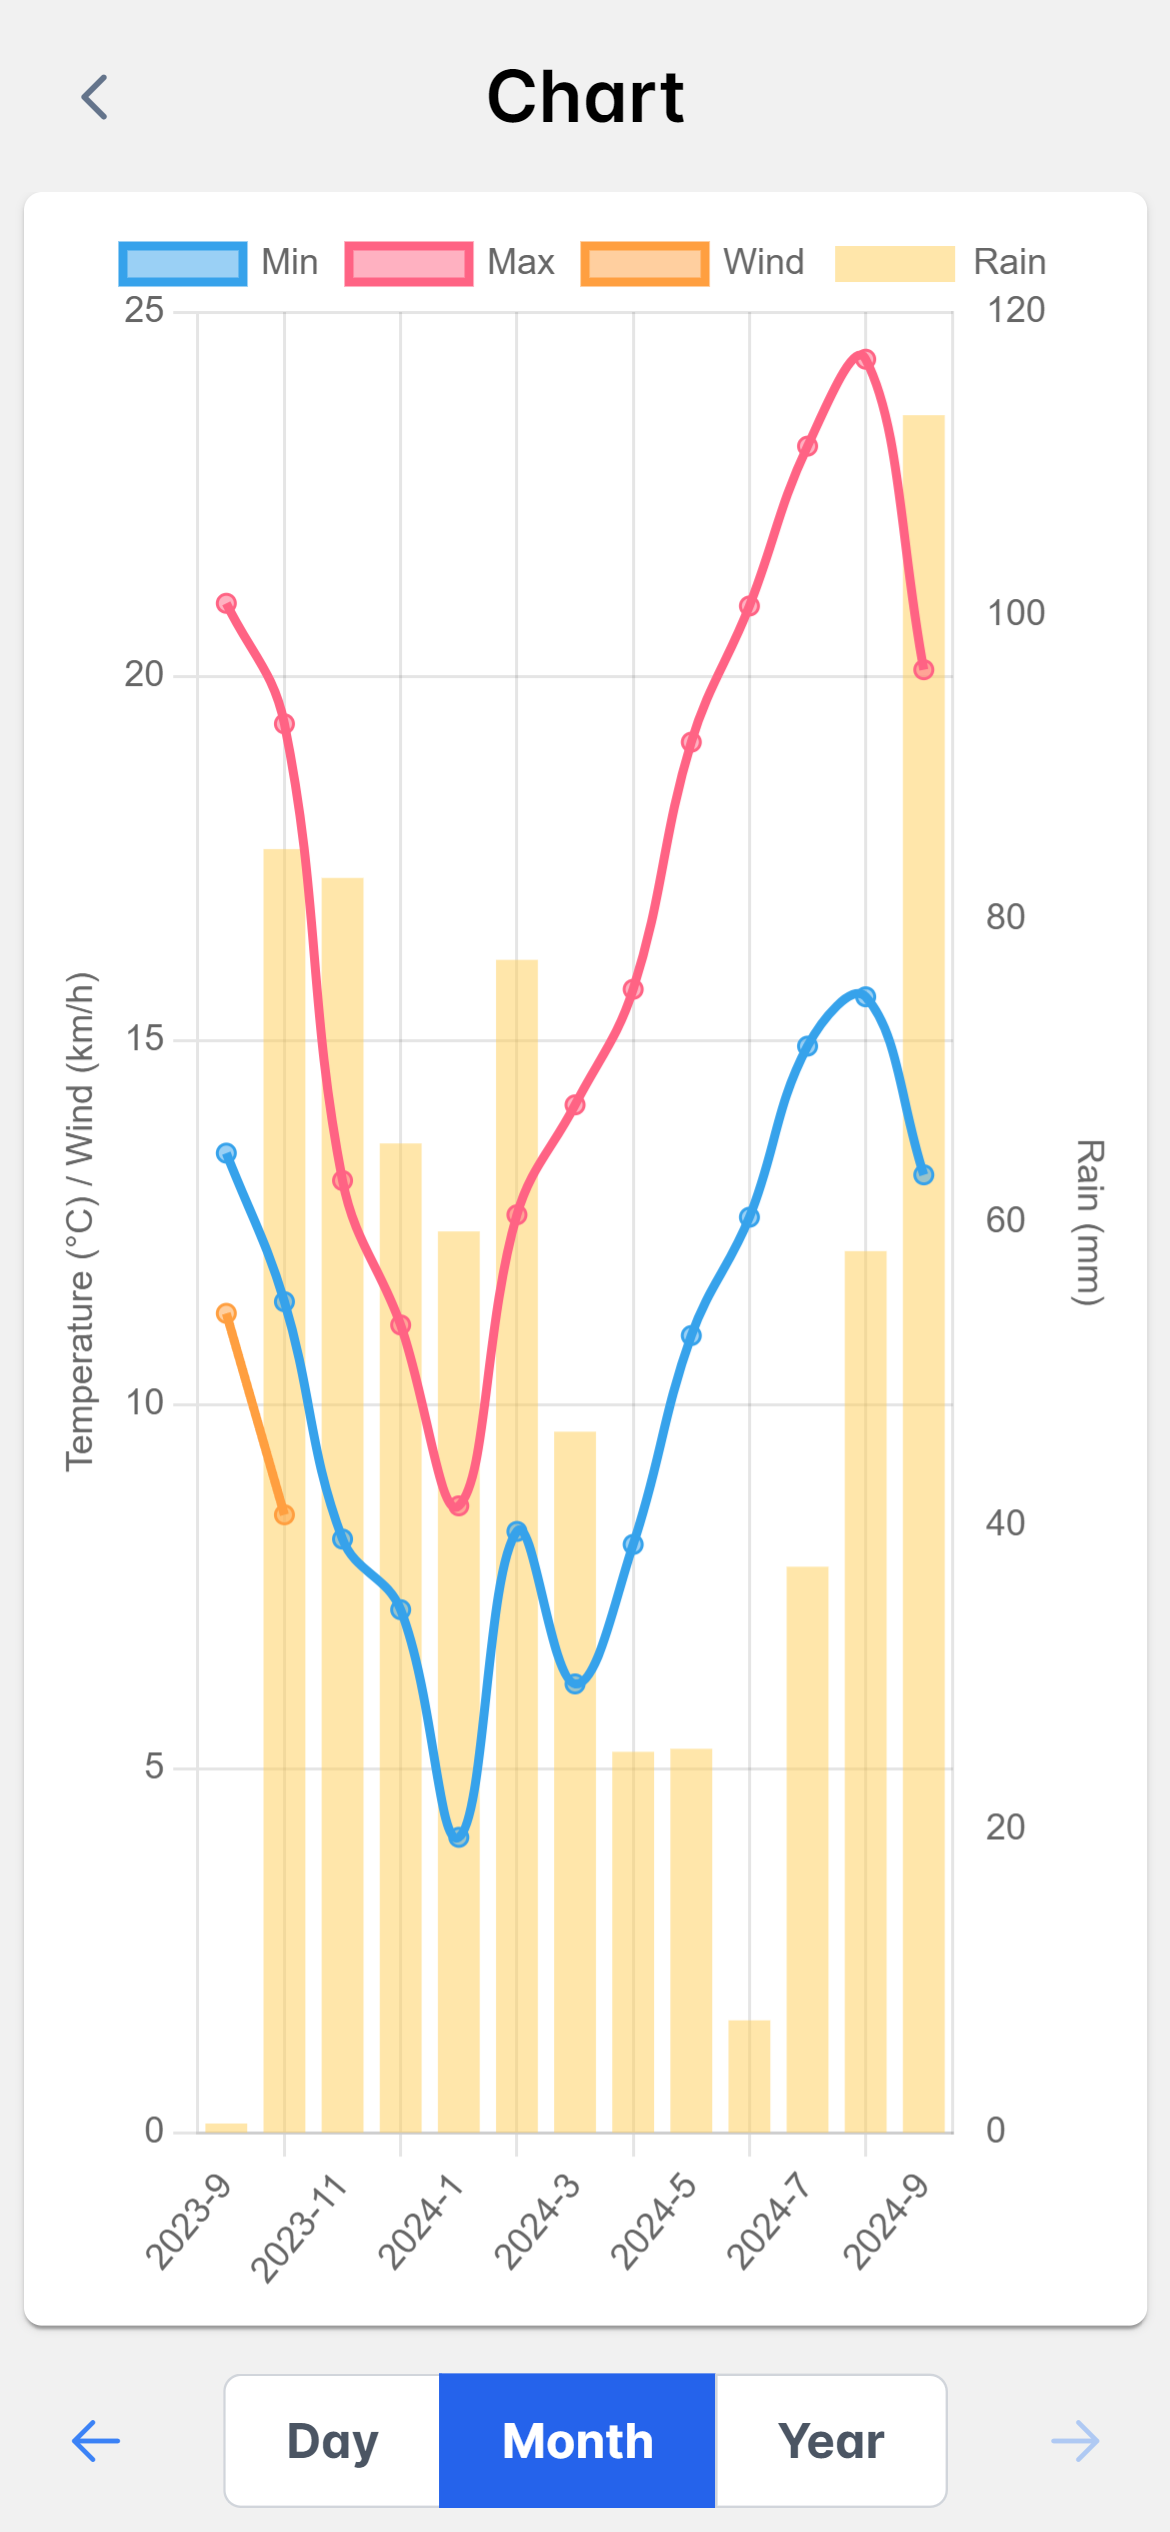
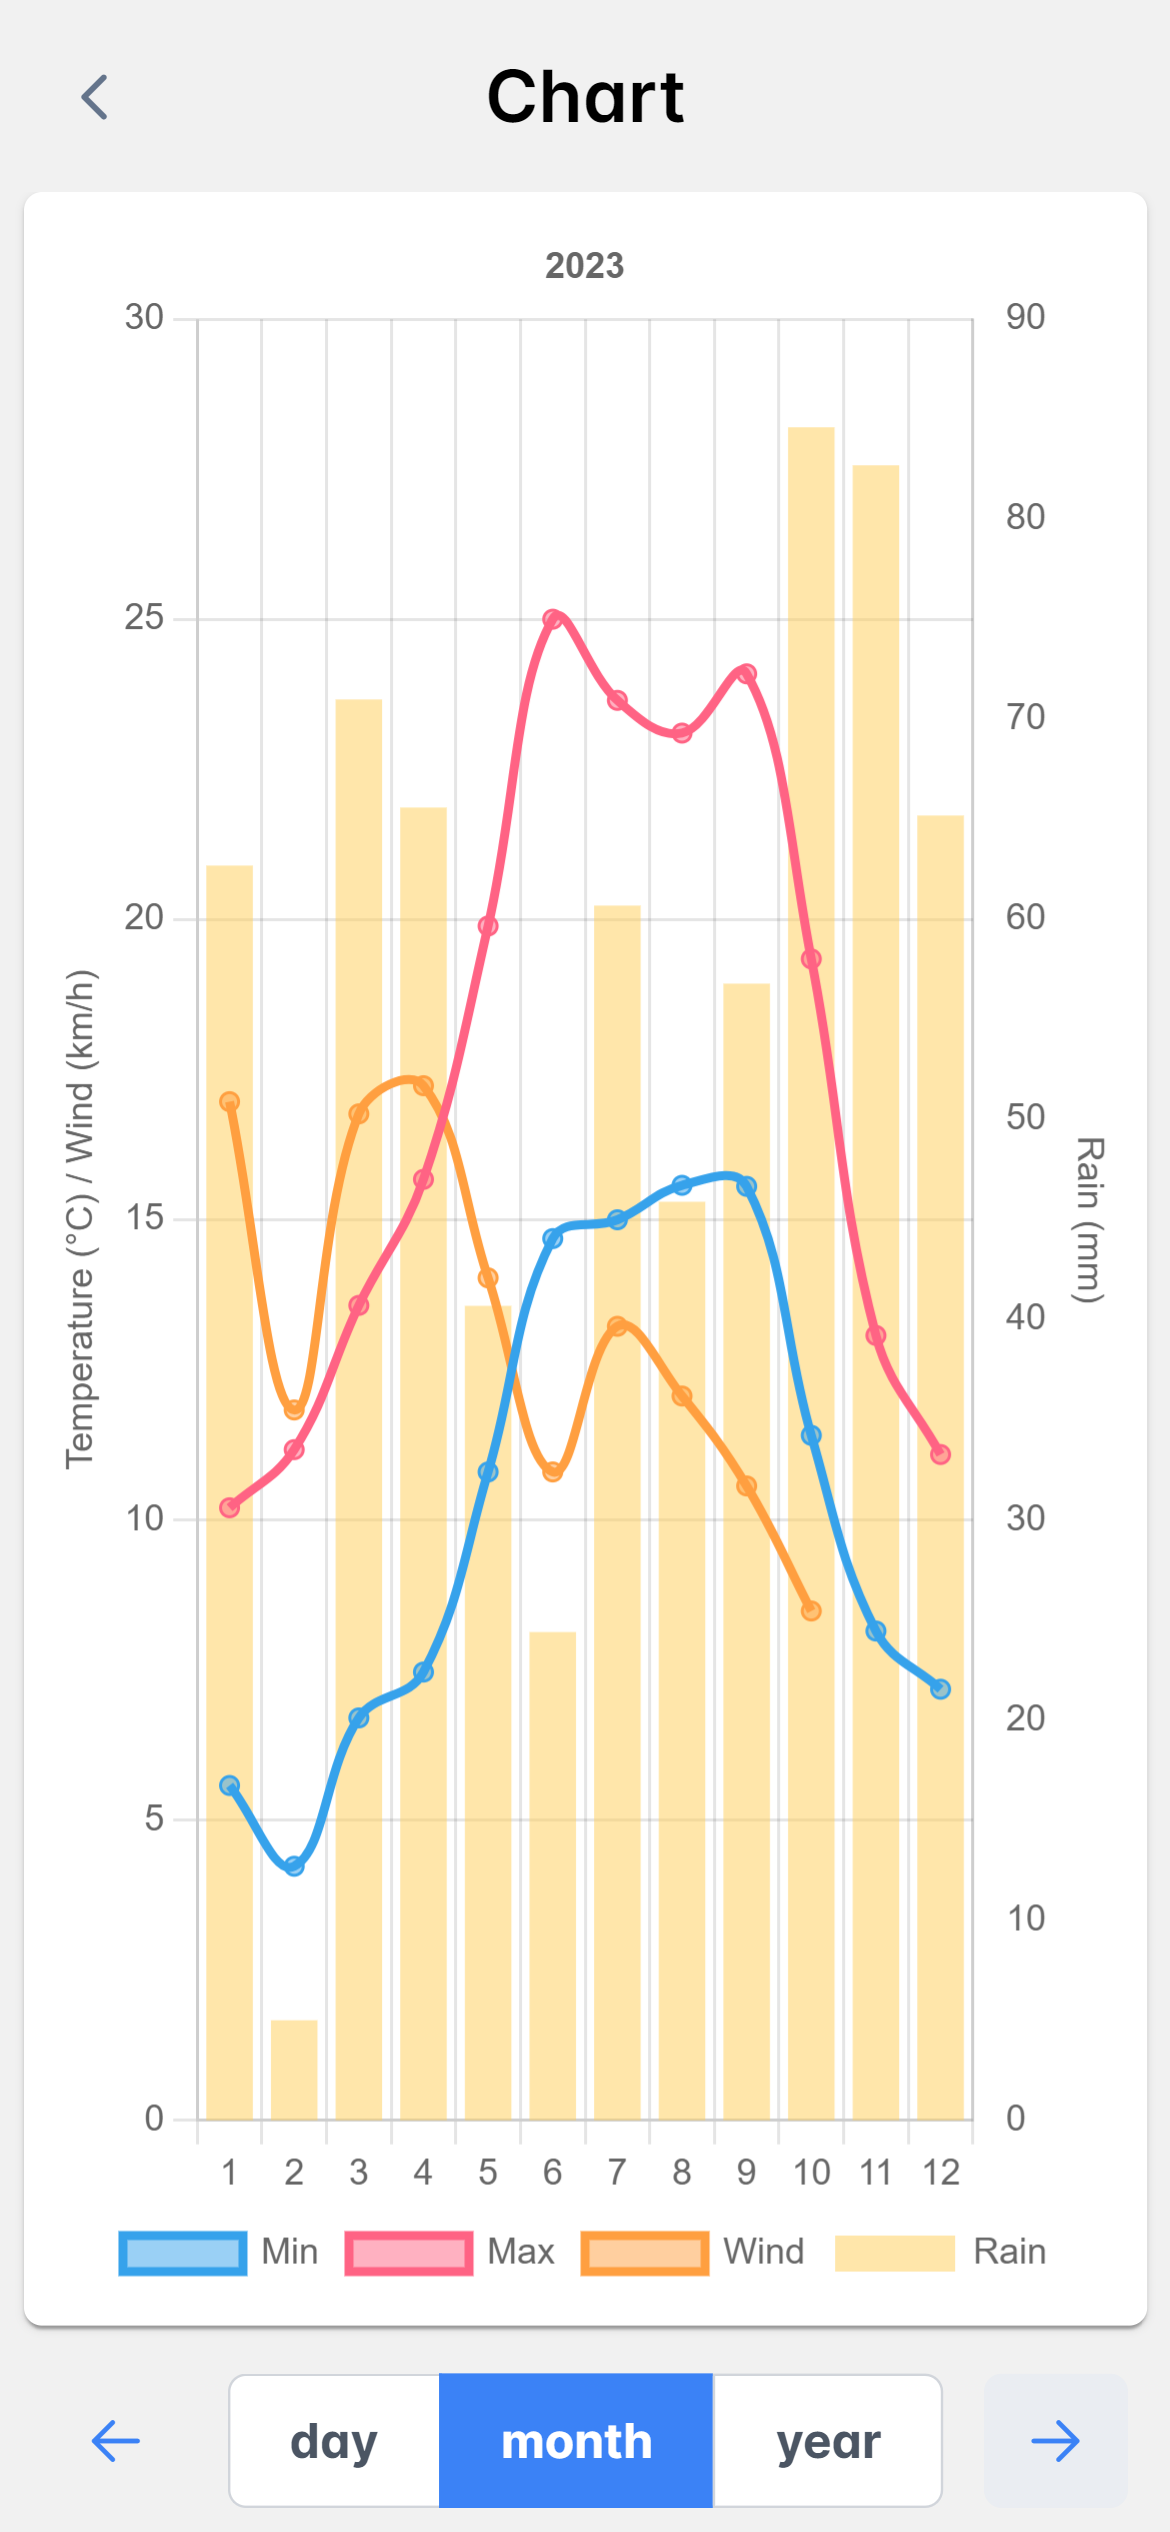
feat: update & chart title

diff --git a/src/app/pages/chart/chart.component.ts b/src/app/pages/chart/chart.component.ts
@@ -27,8 +27,11 @@ export class ChartComponent {
   chartData: WeatherData[] = []
   yearData: WeatherData[] = []
 
-  currentYear: number = new Date().getFullYear()
+  today: Date = new Date()
+  currentMonth: number = this.today.getMonth()
+  currentYear: number = this.today.getFullYear()
   selectedYear: number = this.currentYear
+  selectedMonth: number = this.currentMonth
 
   displayData: any
   chartOptions: any
@@ -49,27 +52,35 @@ export class ChartComponent {
     })
     this.dataService.getLastYearData().subscribe((data) => {
       this.chartData = data
-      this.displayData = this.dataService.weatherDataToChartData(
-        data,
-        this.selectedOption
-      )
+      this.onSelectionchange()
     })
   }
-
-  protected readonly onselectionchange = onselectionchange
 
   onSelectionchange() {
     switch (this.selectedOption) {
       case 'day':
+        const currentMonth = new Date(
+          this.selectedYear,
+          this.selectedMonth + 1,
+          0
+        )
+        const monthStart = new Date(currentMonth)
+        monthStart.setDate(1)
+        console.log(currentMonth, monthStart)
+        const lastMonthData = this.chartData.filter(
+          (entry) => entry.date >= monthStart && entry.date <= currentMonth
+        )
         this.displayData = this.dataService.weatherDataToChartData(
-          this.chartData,
-          this.selectedOption
+          lastMonthData,
+          this.selectedOption,
+          monthStart
         )
         break
       case 'month':
         this.displayData = this.dataService.weatherDataToChartData(
           this.calculateMonthlyAverages(this.chartData),
-          this.selectedOption
+          this.selectedOption,
+          this.selectedYear.toString()
         )
         break
       case 'year':
@@ -93,12 +104,11 @@ export class ChartComponent {
 
   calculateMonthlyAverages(data: WeatherData[]): WeatherData[] {
     const monthlyData: { [key: string]: any } = {}
-    const oneYearAgo = new Date(this.selectedYear - 1)
 
     // Parcourir chaque entrée et grouper par mois
     data.forEach((entry) => {
       const date = entry.date
-      if (date < oneYearAgo) {
+      if (date.getFullYear() < this.selectedYear) {
         return
       }
       const yearMonth = `${date.getFullYear()}-${date.getMonth() + 1}` // Format "YYYY-MM"
@@ -184,18 +194,57 @@ export class ChartComponent {
   }
 
   onPrevious() {
-    this.selectedYear--
-    this.dataService.getDataByYear(this.selectedYear).subscribe((data) => {
-      this.chartData = data
-      this.onSelectionchange()
-    })
+    if (this.selectedOption === 'day') {
+      if (this.selectedMonth <= 0) {
+        this.selectedMonth = 11
+        this.selectedYear--
+        this.dataService.getDataByYear(this.selectedYear).subscribe((data) => {
+          this.chartData = data
+          this.onSelectionchange()
+        })
+      } else {
+        this.selectedMonth--
+        this.onSelectionchange()
+      }
+    } else {
+      this.selectedYear--
+      this.dataService.getDataByYear(this.selectedYear).subscribe((data) => {
+        this.chartData = data
+        this.onSelectionchange()
+      })
+    }
   }
 
   onNext() {
-    this.selectedYear++
-    this.dataService.getDataByYear(this.selectedYear).subscribe((data) => {
-      this.chartData = data
-      this.onSelectionchange()
-    })
+    if (this.selectedOption === 'day') {
+      if (this.selectedMonth === 11) {
+        this.selectedMonth = 0
+        this.selectedYear++
+        this.dataService.getDataByYear(this.selectedYear).subscribe((data) => {
+          this.chartData = data
+          this.onSelectionchange()
+        })
+      } else {
+        this.selectedMonth++
+        this.onSelectionchange()
+      }
+    } else {
+      this.selectedYear++
+      this.dataService.getDataByYear(this.selectedYear).subscribe((data) => {
+        this.chartData = data
+        this.onSelectionchange()
+      })
+    }
+  }
+
+  isNextDisabled() {
+    if (this.selectedOption === 'day') {
+      return (
+        this.selectedYear >= this.currentYear &&
+        this.selectedMonth >= this.currentMonth
+      )
+    } else {
+      return this.selectedYear >= this.currentYear
+    }
   }
 }

diff --git a/src/app/services/data.service.ts b/src/app/services/data.service.ts
@@ -1,6 +1,6 @@
 import { Injectable } from '@angular/core'
 import { HttpClient, HttpHeaders } from '@angular/common/http'
-import { map, Observable, switchMap } from 'rxjs'
+import { BehaviorSubject, map, Observable, switchMap } from 'rxjs'
 import { environment } from '../../environments/environment'
 import { TranslateService } from '@ngx-translate/core'
 
@@ -19,6 +19,7 @@ export class DataService {
   private apiUrl = environment.apiUrl
 
   chartOptions$: Observable<any>
+  chartTitleSubject = new BehaviorSubject<string>('')
 
   private yAxis!: string
   private y1Axis!: string
@@ -34,6 +35,9 @@ export class DataService {
       }),
       map((y1Axis) => {
         this.y1Axis = y1Axis
+      }),
+      switchMap(() => this.chartTitleSubject),
+      map((chartTitle) => {
         return {
           scales: {
             y: {
@@ -53,6 +57,15 @@ export class DataService {
               grid: {
                 display: false,
               },
+            },
+          },
+          plugins: {
+            legend: {
+              position: 'bottom',
+            },
+            title: {
+              display: true,
+              text: chartTitle,
             },
           },
         }
@@ -118,17 +131,31 @@ export class DataService {
 
   weatherDataToChartData(
     data: WeatherData[],
-    filter: 'day' | 'month' | 'year'
+    filter: 'day' | 'month' | 'year',
+    date: Date | string = ''
   ): any {
+    if (typeof date === 'string') {
+      this.chartTitleSubject.next(date)
+    }
     let labels: string[] = []
     switch (filter) {
       case 'day':
-        labels = data.map((data) => data.date.toLocaleDateString())
+        if (typeof date !== 'string') {
+          this.translateService
+            .get('primeng.monthNames')
+            .subscribe((months) =>
+              this.chartTitleSubject.next(
+                `${months[date.getMonth()]} ${date.getFullYear()}`
+              )
+            )
+        }
+        labels = data.map((data) => data.date.getDate().toString())
         break
       case 'month':
-        labels = data.map(
-          (data) => `${data.date.getFullYear()}-${data.date.getMonth() + 1}`
-        )
+        if (typeof date !== 'string') {
+          this.chartTitleSubject.next(date.getFullYear().toString())
+        }
+        labels = data.map((data) => (data.date.getMonth() + 1).toString())
         break
       case 'year':
         labels = data.map((data) => data.date.getFullYear().toString())

diff --git a/src/app/pages/dashboard/dashboard.component.ts b/src/app/pages/dashboard/dashboard.component.ts
@@ -5,9 +5,10 @@ import { RouterLink } from '@angular/router'
 import { DataService, WeatherData } from '../../services/data.service'
 import { CardModule } from 'primeng/card'
 import { ChartModule } from 'primeng/chart'
-import { TranslateModule } from '@ngx-translate/core'
+import { TranslateModule, TranslateService } from '@ngx-translate/core'
 import { StyleClassModule } from 'primeng/styleclass'
 import { NgOptimizedImage } from '@angular/common'
+import { map, switchMap } from 'rxjs'
 
 @Component({
   selector: 'app-dashboard',
@@ -34,7 +35,10 @@ export class DashboardComponent {
   chartData: any
   chartOptions: any
 
-  constructor(private dataService: DataService) {
+  constructor(
+    private dataService: DataService,
+    private translateService: TranslateService
+  ) {
     this.dataService.chartOptions$.subscribe((options) => {
       this.chartOptions = options
     })
@@ -42,10 +46,23 @@ export class DashboardComponent {
   }
 
   getData() {
-    this.dataService.getLastMonthData().subscribe((data) => {
-      this.weatherData = data
-      this.chartData = this.dataService.weatherDataToChartData(data, 'day')
-    })
+    this.dataService
+      .getLastMonthData()
+      .pipe(
+        switchMap((data) =>
+          this.translateService
+            .get('this-month')
+            .pipe(map((title) => ({ title, data })))
+        )
+      )
+      .subscribe(({ title, data }) => {
+        this.weatherData = data
+        this.chartData = this.dataService.weatherDataToChartData(
+          data,
+          'day',
+          title
+        )
+      })
     this.dataService.getLastWeekData().subscribe((data) => {
       this.maxTemp = parseFloat(
         Math.max(

diff --git a/src/app/app.component.ts b/src/app/app.component.ts
@@ -3,8 +3,8 @@ import { RouterOutlet } from '@angular/router'
 import { DashboardComponent } from './pages/dashboard/dashboard.component'
 import { TranslateService } from '@ngx-translate/core'
 import { PrimeNGConfig } from 'primeng/api'
-import { SwUpdate } from '@angular/service-worker'
-import { map, switchMap } from 'rxjs'
+import { SwUpdate, VersionEvent } from '@angular/service-worker'
+import { map, of, switchMap } from 'rxjs'
 
 @Component({
   selector: 'app-root',
@@ -22,14 +22,24 @@ export class AppComponent implements OnInit {
     private swUpdate: SwUpdate
   ) {
     if (this.swUpdate.isEnabled) {
-      this.swUpdate.versionUpdates.pipe(
-        switchMap(() => this.translateService.get('update')),
-        map((updateMessage) => {
-          if (confirm(updateMessage)) {
-            window.location.reload()
-          }
-        })
-      )
+      this.swUpdate.versionUpdates
+        .pipe(
+          switchMap((event: VersionEvent) => {
+            if (event.type === 'VERSION_READY') {
+              return this.translateService.get('update')
+            } else {
+              return of('')
+            }
+          }),
+          map((updateMessage) => {
+            if (updateMessage !== '') {
+              if (confirm(updateMessage)) {
+                window.location.reload()
+              }
+            }
+          })
+        )
+        .subscribe()
     }
   }
 

diff --git a/src/app/pages/chart/chart.component.html b/src/app/pages/chart/chart.component.html
@@ -10,23 +10,27 @@
         height="100%"
       ></p-chart>
     </p-card>
-    <div class="w-full flex justify-content-between">
-      <p-button
-        icon="pi pi-arrow-left"
-        [text]="true"
-        (onClick)="onPrevious()"
-      ></p-button>
+    <div class="w-full flex justify-content-around">
+      @if (selectedOption !== 'year') {
+        <p-button
+          icon="pi pi-arrow-left"
+          [text]="true"
+          (onClick)="onPrevious()"
+        ></p-button>
+      }
       <p-selectButton
         [options]="chartSelection"
         [(ngModel)]="selectedOption"
         (onChange)="onSelectionchange()"
       />
-      <p-button
-        icon="pi pi-arrow-right"
-        [text]="true"
-        (onClick)="onNext()"
-        [disabled]="selectedYear >= currentYear"
-      ></p-button>
+      @if (selectedOption !== 'year') {
+        <p-button
+          icon="pi pi-arrow-right"
+          [text]="true"
+          (onClick)="onNext()"
+          [disabled]="isNextDisabled()"
+        ></p-button>
+      }
     </div>
   </div>
 </div>
